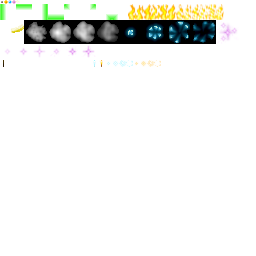
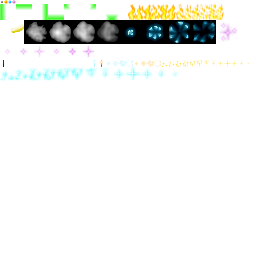
- More particle stuff. - Level up effect.

Changed region(s): [[0.0, 0.25, 0.375, 0.3125], [0.625, 0.2188, 0.9375, 0.3125], [0.4062, 0.25, 0.5938, 0.3125]]

diff --git a/include/tpublic/Data/ParticleSystem.h b/include/tpublic/Data/ParticleSystem.h
@@ -72,6 +72,14 @@ namespace tpublic
 						{
 							m_offsetY = aChild->GetFloat();
 						}
+						else if (aChild->m_name == "move_x")
+						{
+							m_moveX = aChild->GetFloat();
+						}
+						else if (aChild->m_name == "move_y")
+						{
+							m_moveY = aChild->GetFloat();
+						}
 						else if (aChild->m_name == "rotation_rate")
 						{
 							m_rotationRate = aChild->GetInt32();
@@ -108,6 +116,8 @@ namespace tpublic
 					aWriter->WriteInt(m_rotationRate);
 					aWriter->WriteFloat(m_offsetX);
 					aWriter->WriteFloat(m_offsetY);
+					aWriter->WriteFloat(m_moveX);
+					aWriter->WriteFloat(m_moveY);
 				}
 
 				bool
@@ -144,6 +154,10 @@ namespace tpublic
 						return false;
 					if (!aReader->ReadFloat(m_offsetY))
 						return false;
+					if (!aReader->ReadFloat(m_moveX))
+						return false;
+					if (!aReader->ReadFloat(m_moveY))
+						return false;
 					return true;
 				}
 
@@ -163,6 +177,8 @@ namespace tpublic
 				uint8_t								m_colorModB = 255;
 				float								m_offsetX = 0.0f;
 				float								m_offsetY = 0.0f;
+				float								m_moveX = 0.0f;
+				float								m_moveY = 0.0f;
 			};
 
 			void
